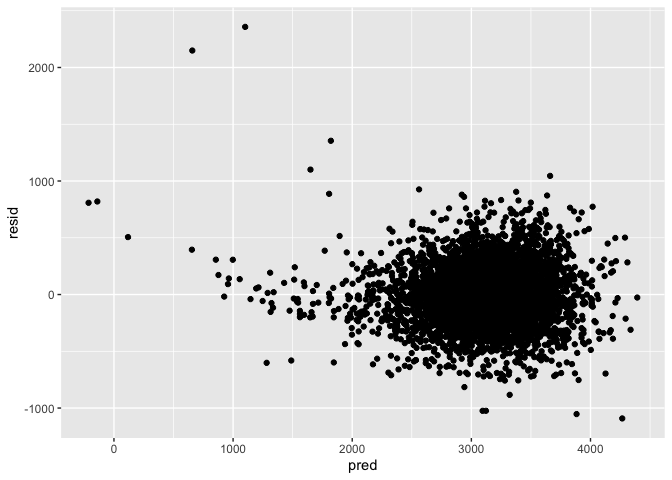
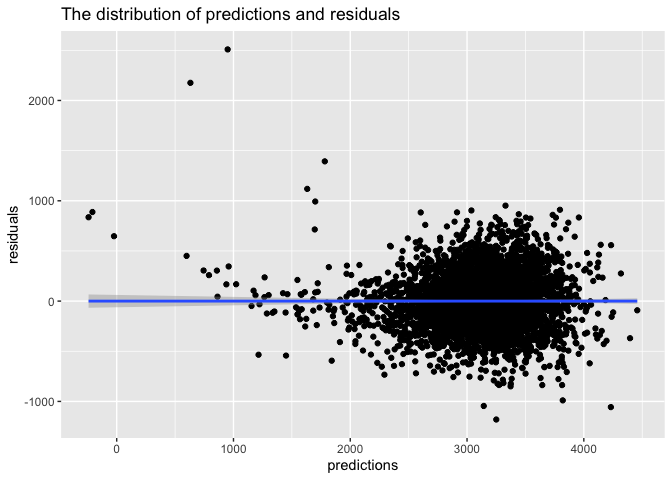
add some comment

diff --git a/p8105_hw6_ss5929.md b/p8105_hw6_ss5929.md
@@ -7,14 +7,14 @@ Shuyi SHEN
 library(tidyverse)
 ```
 
-    ## ── Attaching packages ───────────────── tidyverse 1.2.1 ──
+    ## ── Attaching packages ───────────
 
     ## ✔ ggplot2 3.2.1     ✔ purrr   0.3.2
     ## ✔ tibble  2.1.3     ✔ dplyr   0.8.3
     ## ✔ tidyr   1.0.0     ✔ stringr 1.4.0
     ## ✔ readr   1.3.1     ✔ forcats 0.4.0
 
-    ## ── Conflicts ──────────────────── tidyverse_conflicts() ──
+    ## ── Conflicts ────────────────────
     ## ✖ dplyr::filter() masks stats::filter()
     ## ✖ dplyr::lag()    masks stats::lag()
 
@@ -32,8 +32,6 @@ library(modelr)
 
 ``` r
 library(ggplot2)
-
-set.seed(1)
 ```
 
 # Problem 1
@@ -42,9 +40,9 @@ set.seed(1)
 birthweight = read.csv("birthweight.csv") %>%
         janitor::clean_names() %>%
   mutate(babysex = factor(babysex),
-         frace   = factor(frace),
          malform = factor(malform),
-         mrace   = factor(frace))
+         frace   = factor(frace),
+         mrace   = factor(mrace))
   
 
 is.na(birthweight) %>% summary()
@@ -66,49 +64,89 @@ is.na(birthweight) %>% summary()
     ##  Mode :logical   Mode :logical   Mode :logical   Mode :logical  
     ##  FALSE:4342      FALSE:4342      FALSE:4342      FALSE:4342
 
+*comment*
+
+**birthweight**
+
+The dataset includes 20 variables and 4342 observations. There are four
+variables including babysex, malform, frace and mrace we need to factor
+and there are no NA values after checking.
+
 ``` r
 fit = lm(bwt~.,data = birthweight)
-anova(fit)
+summary(fit)
 ```
 
-    ## Analysis of Variance Table
     ## 
-    ## Response: bwt
-    ##             Df    Sum Sq   Mean Sq   F value    Pr(>F)    
-    ## babysex      1   8547634   8547634  114.9013 < 2.2e-16 ***
-    ## bhead        1 628838120 628838120 8453.1382 < 2.2e-16 ***
-    ## blength      1 140213755 140213755 1884.8193 < 2.2e-16 ***
-    ## delwt        1   8647158   8647158  116.2392 < 2.2e-16 ***
-    ## fincome      1   4845845   4845845   65.1401 8.960e-16 ***
-    ## frace        4  12713426   3178356   42.7250 < 2.2e-16 ***
-    ## gaweeks      1   4500541   4500541   60.4984 9.145e-15 ***
-    ## malform      1       529       529    0.0071  0.932805    
-    ## menarche     1     51223     51223    0.6886  0.406701    
-    ## mheight      1    535674    535674    7.2008  0.007315 ** 
-    ## momage       1        51        51    0.0007  0.979135    
-    ## parity       1    495503    495503    6.6608  0.009888 ** 
-    ## ppbmi        1   2621005   2621005   35.2328 3.155e-09 ***
-    ## ppwt         1    151601    151601    2.0379  0.153495    
-    ## smoken       1   4897471   4897471   65.8341 6.334e-16 ***
-    ## Residuals 4323 321592659     74391                        
+    ## Call:
+    ## lm(formula = bwt ~ ., data = birthweight)
+    ## 
+    ## Residuals:
+    ##      Min       1Q   Median       3Q      Max 
+    ## -1097.68  -184.86    -3.33   173.09  2344.15 
+    ## 
+    ## Coefficients: (3 not defined because of singularities)
+    ##               Estimate Std. Error t value Pr(>|t|)    
+    ## (Intercept) -6265.3914   660.4011  -9.487  < 2e-16 ***
+    ## babysex2       28.7073     8.4652   3.391 0.000702 ***
+    ## bhead         130.7781     3.4523  37.881  < 2e-16 ***
+    ## blength        74.9536     2.0217  37.075  < 2e-16 ***
+    ## delwt           4.1007     0.3948  10.386  < 2e-16 ***
+    ## fincome         0.2898     0.1795   1.614 0.106551    
+    ## frace2         14.3313    46.1501   0.311 0.756168    
+    ## frace3         21.2361    69.2960   0.306 0.759273    
+    ## frace4        -46.9962    44.6782  -1.052 0.292912    
+    ## frace8          4.2969    74.0741   0.058 0.953745    
+    ## gaweeks        11.5494     1.4654   7.882 4.06e-15 ***
+    ## malform1        9.7650    70.6259   0.138 0.890039    
+    ## menarche       -3.5508     2.8951  -1.226 0.220083    
+    ## mheight         9.7874    10.3116   0.949 0.342588    
+    ## momage          0.7593     1.2221   0.621 0.534418    
+    ## mrace2       -151.4354    46.0453  -3.289 0.001014 ** 
+    ## mrace3        -91.3866    71.9190  -1.271 0.203908    
+    ## mrace4        -56.4787    45.1369  -1.251 0.210901    
+    ## parity         95.5411    40.4793   2.360 0.018307 *  
+    ## pnumlbw             NA         NA      NA       NA    
+    ## pnumsga             NA         NA      NA       NA    
+    ## ppbmi           4.3538    14.8913   0.292 0.770017    
+    ## ppwt           -3.4716     2.6121  -1.329 0.183913    
+    ## smoken         -4.8544     0.5871  -8.269  < 2e-16 ***
+    ## wtgain              NA         NA      NA       NA    
     ## ---
     ## Signif. codes:  0 '***' 0.001 '**' 0.01 '*' 0.05 '.' 0.1 ' ' 1
+    ## 
+    ## Residual standard error: 272.5 on 4320 degrees of freedom
+    ## Multiple R-squared:  0.7183, Adjusted R-squared:  0.717 
+    ## F-statistic: 524.6 on 21 and 4320 DF,  p-value: < 2.2e-16
 
 ``` r
-fit_0 = lm(bwt~babysex+bhead+blength+delwt+fincome+frace+gaweeks+mheight+momage+mrace+parity+ppbmi+smoken,data = birthweight)
+fit_0 = lm(bwt~babysex+bhead+blength+delwt+gaweeks+parity+smoken,data = birthweight)
+```
 
+*comment*
+
+After doing t-test to all variables, I build the model by choosing those
+having significant effect on bwt according to p-value. For those dummy
+variables, only one level is significant will be omitted.
+
+``` r
 birthweight %>% 
 add_residuals(fit_0) %>% 
 add_predictions(fit_0) %>% 
-  ggplot(aes(x=pred,y=resid))+geom_point()
+  ggplot(aes(x=pred,y=resid))+geom_point()+
+  geom_smooth(method = "lm")+
+  labs(
+    x = "predictions",
+    y = "residuals",
+    title = "The distribution of predictions and residuals"
+  )
 ```
 
 ![](p8105_hw6_ss5929_files/figure-gfm/unnamed-chunk-4-1.png)<!-- -->
 *comment*
 
-Build the model through global anova and choose factor which will have
-significant effect on the outcome according to p-value which are greater
-than 0.05.
+According the plot, we can see the points are approximately around 0,
+when predictions are larger, residuals will decrease.
 
 ## compare the model
 
@@ -125,14 +163,14 @@ cv_df %>% pull(train) %>% .[[1]] %>% as_tibble
     ##    babysex bhead blength   bwt delwt fincome frace gaweeks malform menarche
     ##    <fct>   <int>   <int> <int> <int>   <int> <fct>   <dbl> <fct>      <int>
     ##  1 2          34      51  3629   177      35 1        39.9 0             13
-    ##  2 1          34      48  3062   156      65 2        25.9 0             14
-    ##  3 2          36      50  3345   148      85 1        39.9 0             12
-    ##  4 1          34      52  3062   157      55 1        40   0             14
-    ##  5 2          34      52  3374   156       5 1        41.6 0             13
+    ##  2 2          36      50  3345   148      85 1        39.9 0             12
+    ##  3 1          34      52  3062   157      55 1        40   0             14
+    ##  4 2          34      52  3374   156       5 1        41.6 0             13
+    ##  5 1          33      52  3374   129      55 1        40.7 0             12
     ##  6 2          33      46  2523   126      96 2        40.3 0             14
-    ##  7 1          36      52  3515   146      85 1        40.3 0             11
-    ##  8 1          33      50  3459   169      75 2        40.7 0             12
-    ##  9 2          35      51  3317   130      55 1        43.4 0             13
+    ##  7 2          33      49  2778   140       5 1        37.4 0             12
+    ##  8 1          36      52  3515   146      85 1        40.3 0             11
+    ##  9 1          33      50  3459   169      75 2        40.7 0             12
     ## 10 1          35      51  3459   146      55 1        39.4 0             12
     ## # … with 3,463 more rows, and 10 more variables: mheight <int>,
     ## #   momage <int>, mrace <fct>, parity <int>, pnumlbw <int>, pnumsga <int>,
@@ -145,16 +183,16 @@ cv_df %>% pull(test) %>% .[[1]] %>% as_tibble
     ## # A tibble: 869 x 20
     ##    babysex bhead blength   bwt delwt fincome frace gaweeks malform menarche
     ##    <fct>   <int>   <int> <int> <int>   <int> <fct>   <dbl> <fct>      <int>
-    ##  1 1          33      52  3374   129      55 1        40.7 0             12
-    ##  2 2          33      49  2778   140       5 1        37.4 0             12
-    ##  3 2          35      48  3175   158      75 1        39.7 0             13
-    ##  4 2          35      53  3345   127      65 2        39.7 0             14
-    ##  5 1          34      63  3175   143      25 1        41.9 0             13
-    ##  6 2          35      52  3289   135      55 1        40.6 0             13
-    ##  7 1          35      52  3232   121      75 3        42.3 0             13
-    ##  8 2          34      49  2948   135      75 1        42.7 0             12
-    ##  9 1          34      52  3118   130      75 1        41   0             12
-    ## 10 1          33      50  3175   168      25 1        40   0             13
+    ##  1 1          34      48  3062   156      65 2        25.9 0             14
+    ##  2 2          35      51  3317   130      55 1        43.4 0             13
+    ##  3 1          35      51  3544   129      65 1        39.6 0             12
+    ##  4 2          36      52  3629   154      65 1        40.3 0             11
+    ##  5 1          34      52  3203   134      25 1        41.1 0             14
+    ##  6 1          34      63  3175   143      25 1        41.9 0             13
+    ##  7 1          36      52  3629   152      45 1        39.6 0             11
+    ##  8 2          33      49  2948   129      25 1        41   0             13
+    ##  9 1          35      51  3345   145      75 1        41.3 0             12
+    ## 10 1          35      53  3175   130      45 1        40.4 0             13
     ## # … with 859 more rows, and 10 more variables: mheight <int>,
     ## #   momage <int>, mrace <fct>, parity <int>, pnumlbw <int>, pnumsga <int>,
     ## #   ppbmi <dbl>, ppwt <int>, smoken <dbl>, wtgain <int>
@@ -269,30 +307,36 @@ quantile(result_plot$r2,probs = c(0.025,0.975))
 ```
 
     ##      2.5%     97.5% 
-    ## 0.8936977 0.9274807
+    ## 0.8937819 0.9275561
 
 ``` r
 quantile(result_plot$l,probs = c(0.025,0.975))
 ```
 
     ##     2.5%    97.5% 
-    ## 1.966942 2.058528
+    ## 1.964285 2.058907
 
 *comment*
 
-We can see the confidence interval for r^2 is (0.89,0.93) and
-log(beta0\*beta1) is (1.96,2.05).
+The confidence interval for r^2 is (0.89,0.93) and log(beta0\*beta1) is
+(1.96,2.05).
 
 ``` r
 result_plot %>% 
-  ggplot(aes(x=r2))+geom_density()
+  ggplot(aes(x=r2))+geom_density()+
+  labs(
+    title = "The distribution of r^2"
+  )
 ```
 
 ![](p8105_hw6_ss5929_files/figure-gfm/unnamed-chunk-8-1.png)<!-- -->
 
 ``` r
 result_plot %>% 
-  ggplot(aes(x=l))+geom_density()
+  ggplot(aes(x=l))+geom_density()+
+  labs(
+    title = "The distribution of log(beta0*beta1)"
+  )
 ```
 
 ![](p8105_hw6_ss5929_files/figure-gfm/unnamed-chunk-8-2.png)<!-- -->
@@ -300,4 +344,4 @@ result_plot %>%
 *comment*
 
 From the plot, we can see the distribution of r^2 and log(beta0\*beta1)
-are all not strictly normal distribution and left skewed.
+are nearly normal distribution with left skew.
